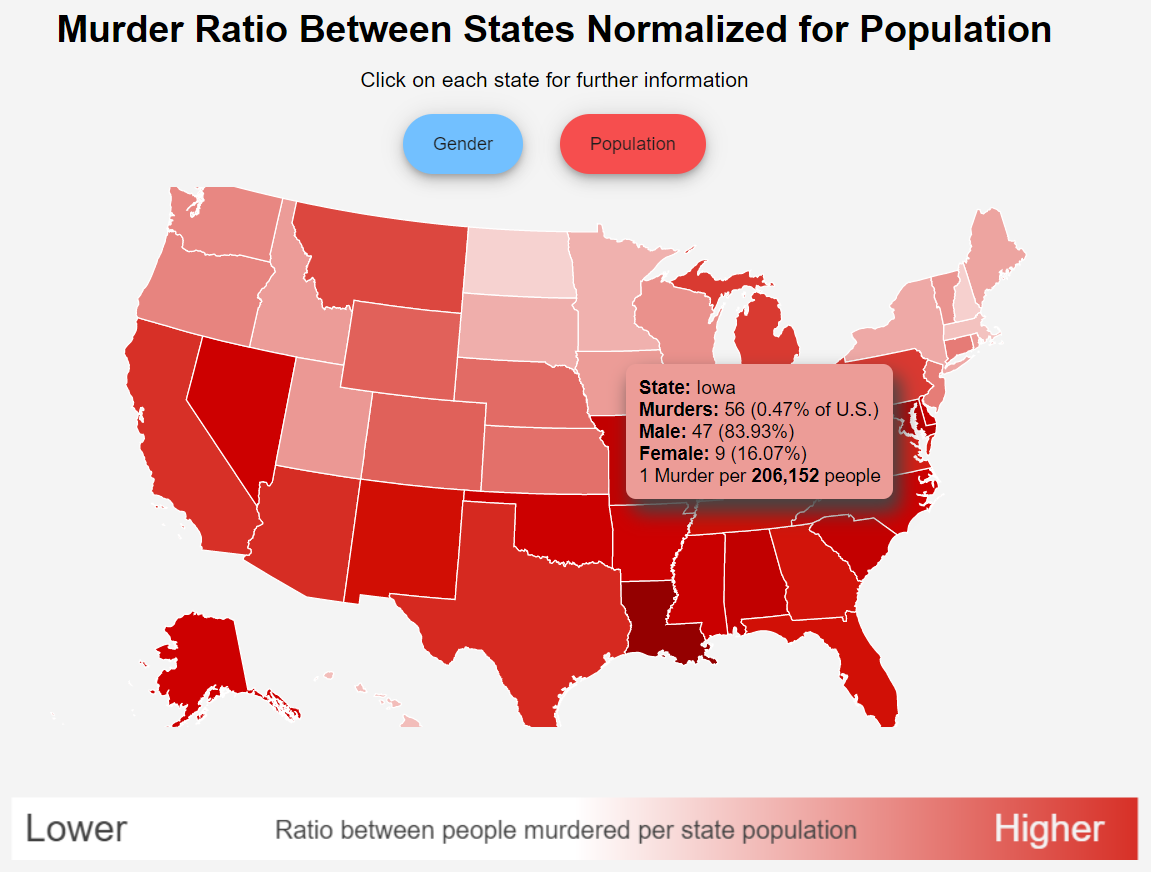
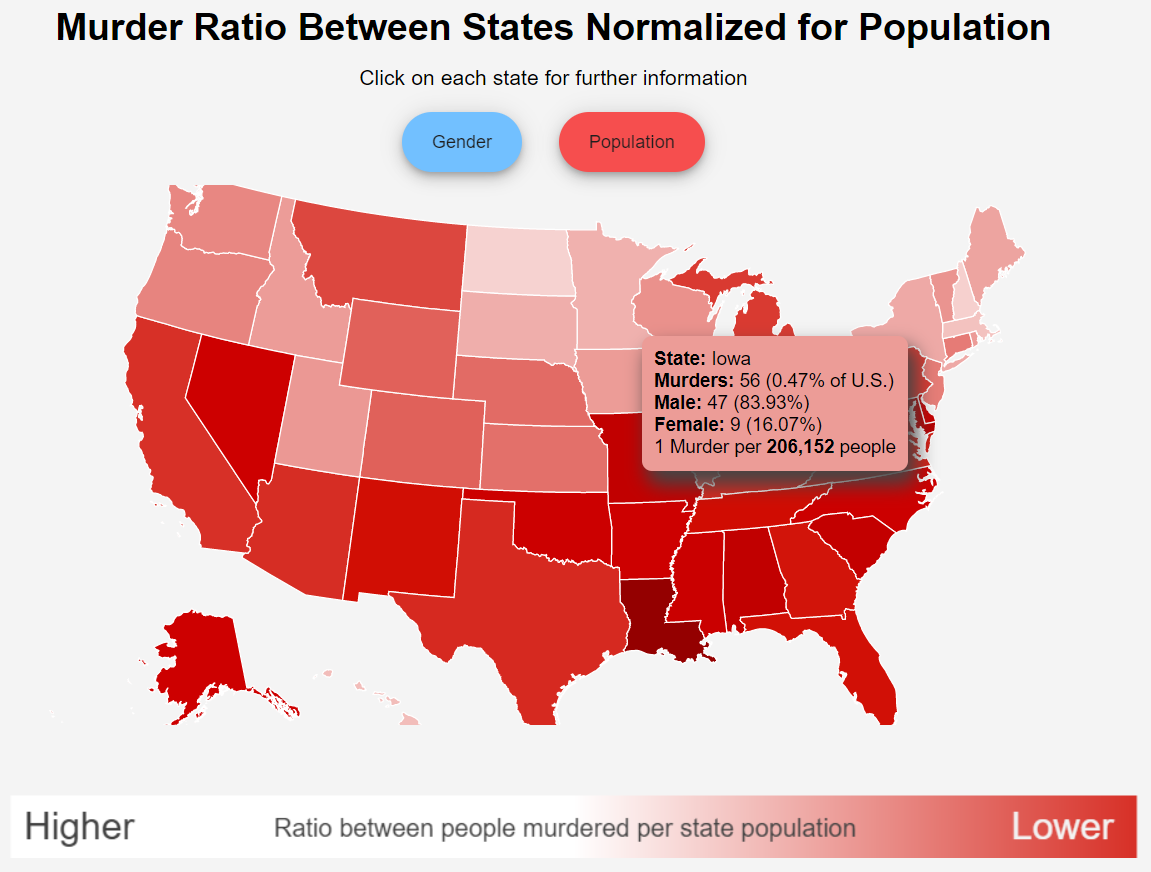
Switched "higher" and "lower" around for population map legend

diff --git a/about_this_project.html b/about_this_project.html
@@ -96,7 +96,7 @@
         Furthermore, when you hover over each of the states, you can understand the information such as numbers about how it compares against other states.
         Here you can see what percentage of total murders happen in a state in comparison to the United States.
         You are also provided with the ratio of one murder to people living in the state.
-        Another visual indirect information to give the ratio information is provided with the color of the tooltip which changes to a darker red as the ratio gets higher.
+        Another visual indirect information to give the ratio information is provided with the color of the tooltip which changes to a darker red as the ratio gets lower.
         The font color adapts to the tooltip to make the information always readable no matter what the background color of the tooltip is.
     </p>
 

diff --git a/js/white_hat_viz_population.js b/js/white_hat_viz_population.js
@@ -202,10 +202,10 @@
 
     ctx.font = "30px arial";
     ctx.fillStyle = "#414141";
-    ctx.fillText("Lower", linearScale(-1) + 10, 85);
+    ctx.fillText("Higher", linearScale(-1) + 10, 85);
 
     ctx.fillStyle = "#f3f3f3";
-    ctx.fillText("Higher", linearScale(1) - 115, 85);
+    ctx.fillText("Lower", linearScale(1) - 100, 85);
 
     ctx.fillStyle = "#414141";
     ctx.font = "20px arial";
